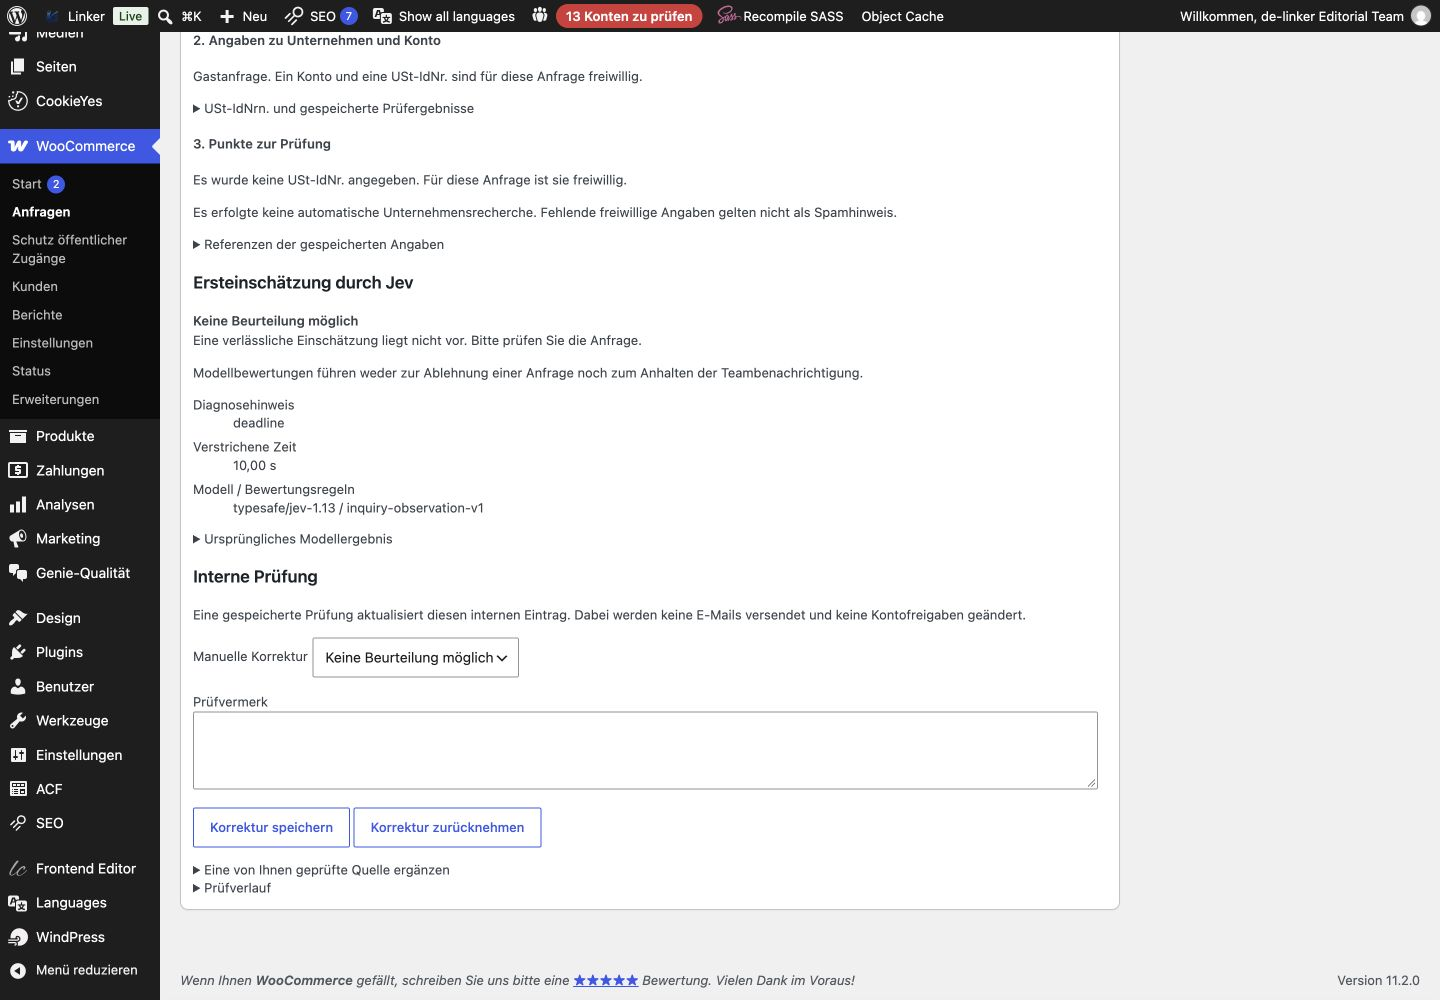
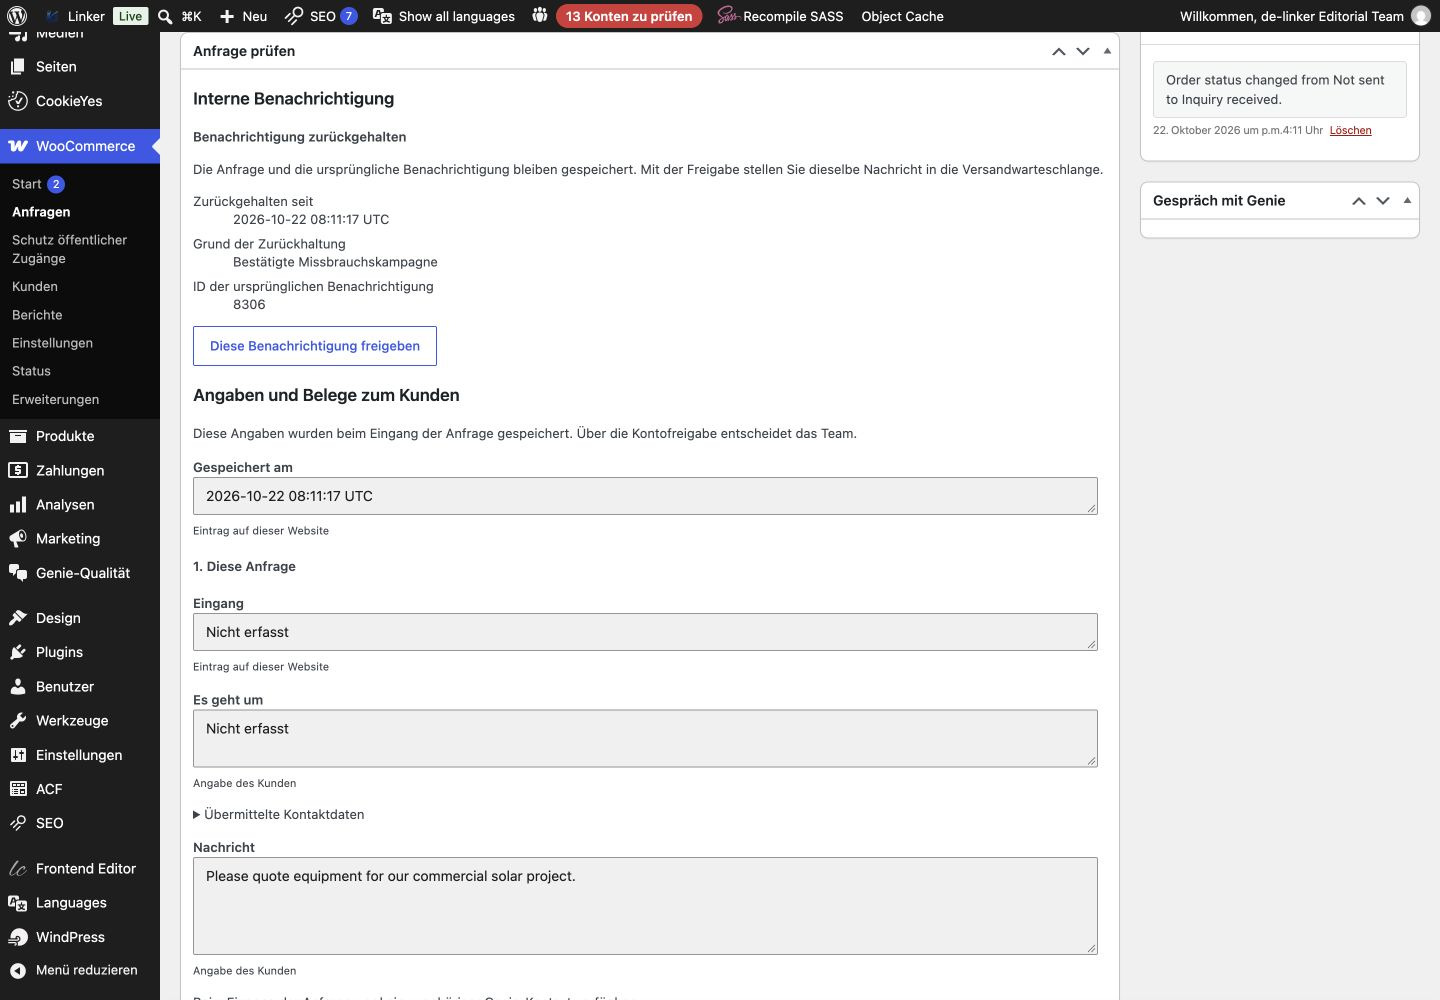
docs: capture held notification controls at desktop width

diff --git a/docs/acceptance/2026-10-22/537/README.md b/docs/acceptance/2026-10-22/537/README.md
@@ -17,6 +17,8 @@ Release source base: `dcd5560d`. The unrelated product-selection update on main 
 
 Eight screenshots: `en-held-1440.jpg`, `en-held-390.jpg`, `de-held-1440.jpg`, `de-held-390.jpg`, plus the corresponding `*-released-*` files. Native WooCommerce inquiry editor; held reason/time/original job and separate release form are visible without a customer UI change. The browser viewport override was reset after capture.
 
+The two 1440 held screenshots were recaptured after independent review because the initial frames missed the notification area. The corrected EN/DE frames use synthetic local inquiry #8304 and original job #8306, held since `2026-10-22 08:11:17 UTC`; both visibly include the reason, time, original job and native release button. The button was left untouched. This evidence correction changes only these two screenshots and this README; executable source remains identical to `1344617f1bc292a77a43774bdaef58ffb2c711ab`. The local staff locale and viewport override were restored. The existing test results were not rerun for this screenshot-only correction.
+
 The protected German button was clicked for synthetic local inquiry #8196, original job #8197. `ui-readback.json` records unchanged inquiry status, model initial label and original body/target; held markers cleared, one pending delivery action, original job still private with attempts 0, throttle 80 unchanged. The scheduled date is the next actual local quota slot, so the released UI is not represented as physical delivery. A separate isolated native test exercises exactly one eventual delivery after capacity becomes available.
 
 `copy-review.md` records the wording review. `docs/specs/537-notification-hold.md` owns behavior, cache/mutex boundary and rollback cautions. Independent Spec and Standards review is coordinated by the parent before delivery.
